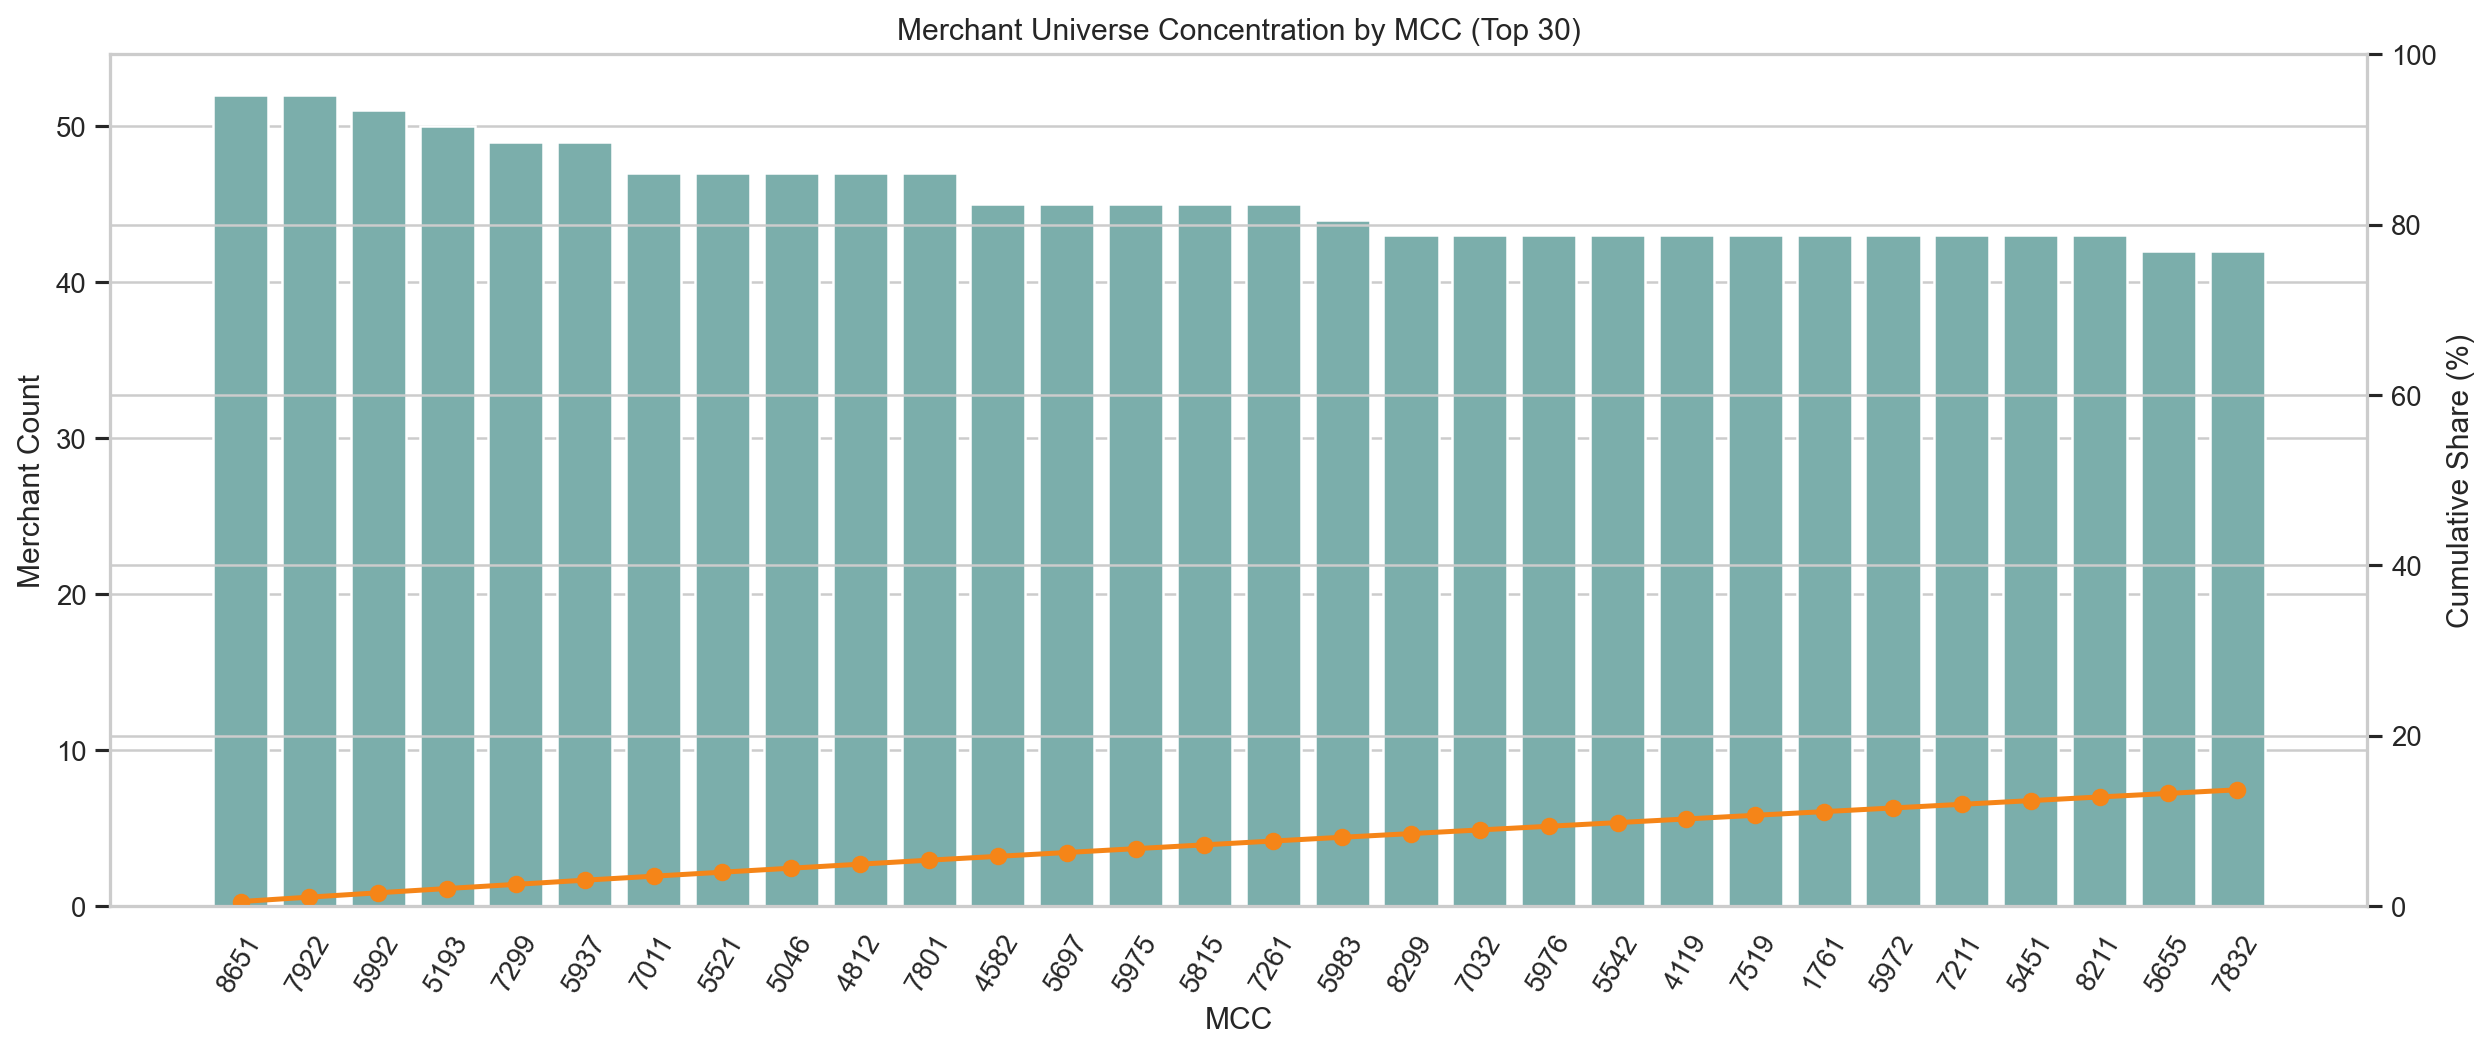
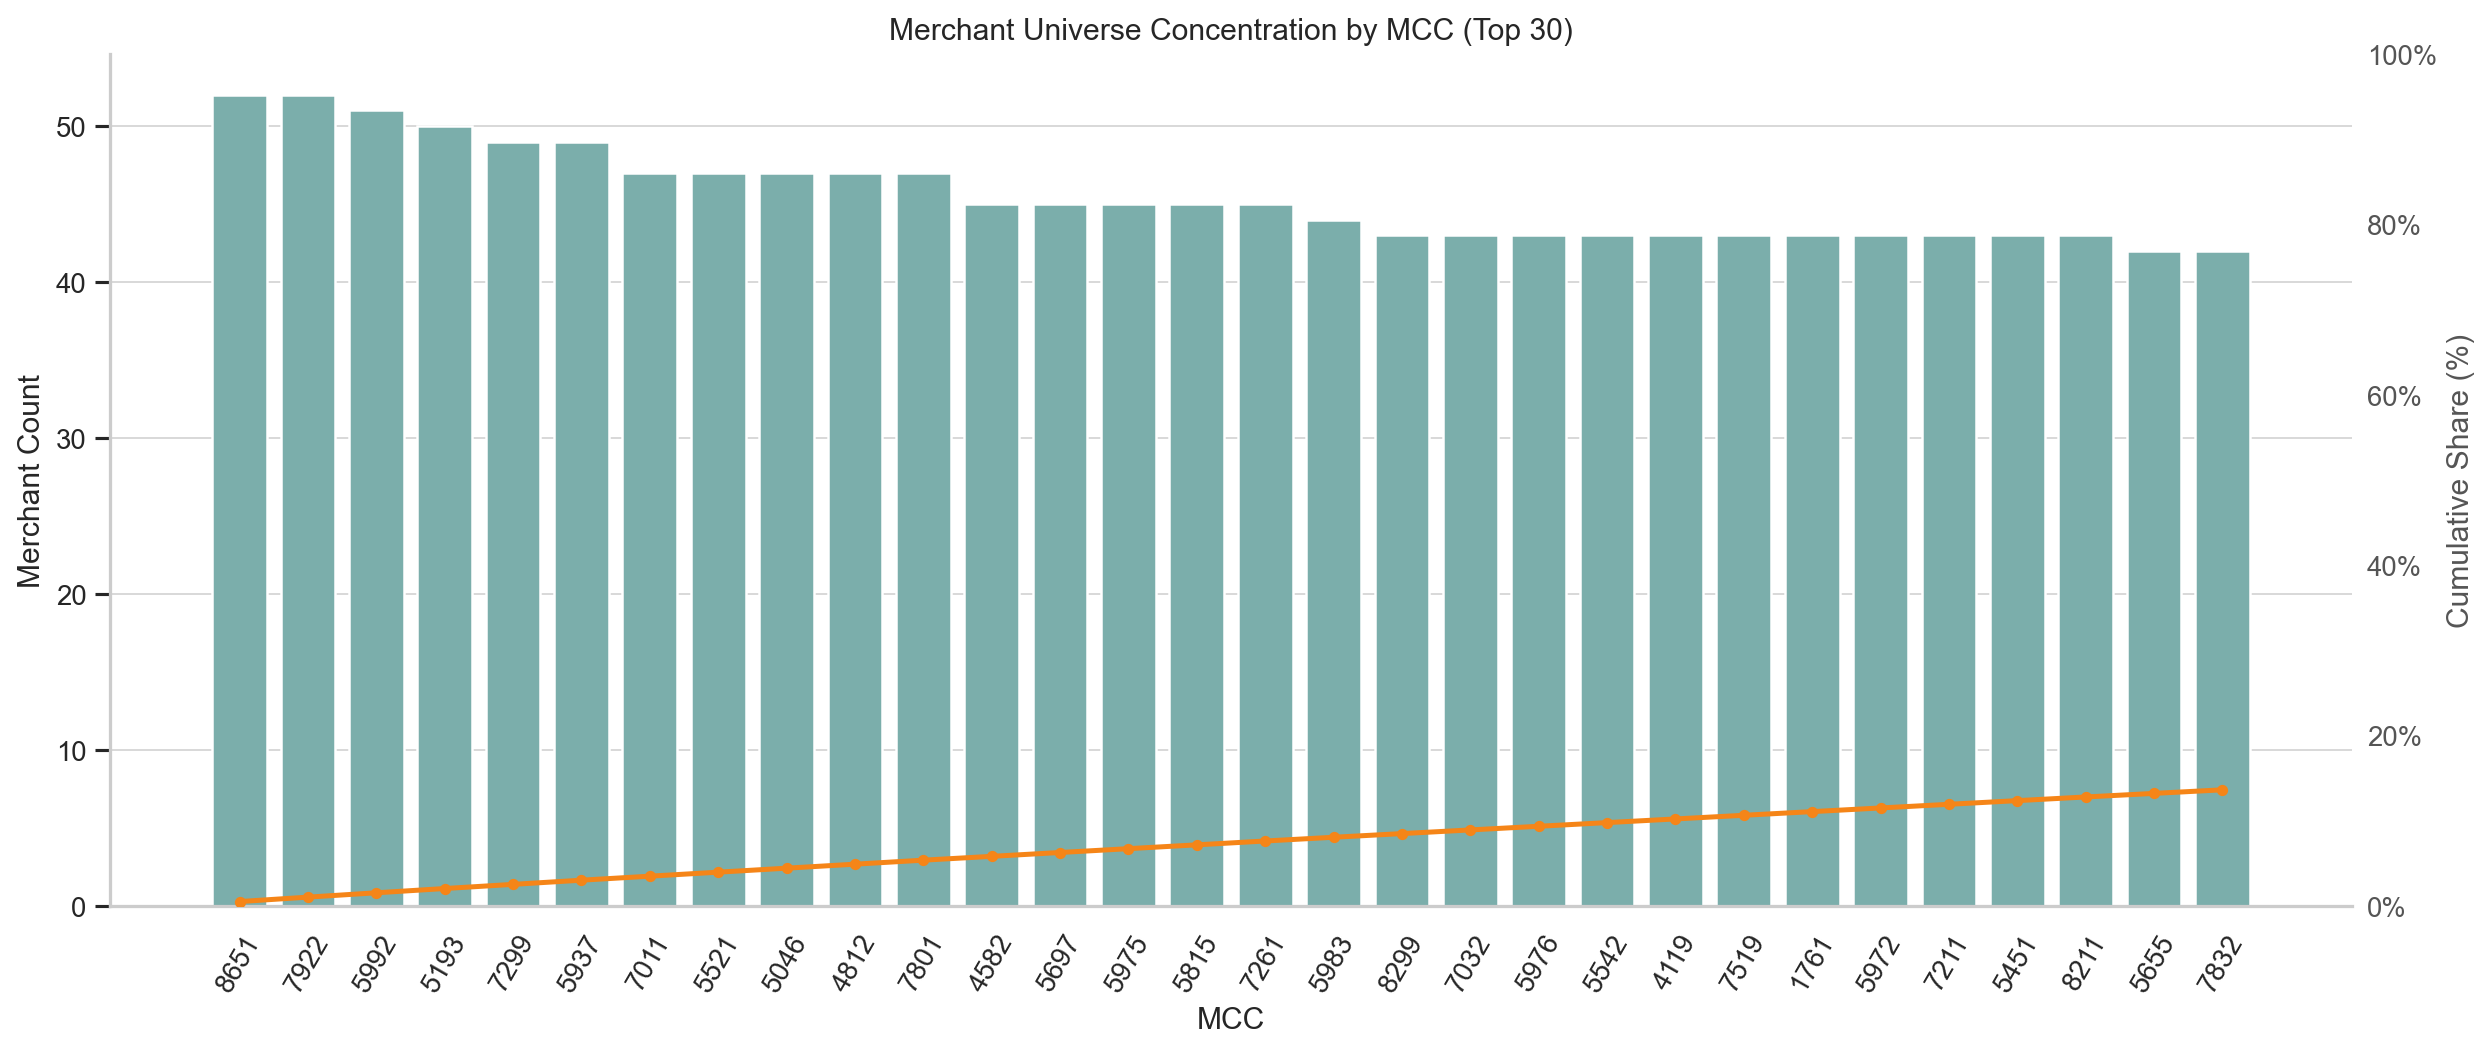
Add visualizations for merchant data analysis: country pareto, MCC pareto, and channel split

diff --git a/analysis/dev_full_offline_investigation/00_investigation/watson_workbench/scratch/generate_transaction_schema_merchant_ids_visuals.py b/analysis/dev_full_offline_investigation/00_investigation/watson_workbench/scratch/generate_transaction_schema_merchant_ids_visuals.py
@@ -1,0 +1,157 @@
+from pathlib import Path
+
+import matplotlib
+
+# Use a non-interactive backend so plots can be rendered from the terminal.
+matplotlib.use("Agg")
+
+import matplotlib.pyplot as plt
+from matplotlib.ticker import PercentFormatter
+import pandas as pd
+import seaborn as sns
+
+
+ROOT = Path(r"c:\Users\LEGION\Documents\Data Science\Python & R Scripts\fraud-detection-system")
+WORKBENCH = ROOT / "analysis/dev_full_offline_investigation/00_investigation/watson_workbench"
+EXPORTS = WORKBENCH / "exports"
+EXPORTS.mkdir(parents=True, exist_ok=True)
+
+MERCHANT_PATH = ROOT / "reference/layer1/transaction_schema_merchant_ids/2026-01-03/transaction_schema_merchant_ids.parquet"
+
+
+def style_dual_axis(ax1, ax2) -> None:
+    # Keep the bar axis visually primary.
+    ax1.spines["top"].set_visible(False)
+    ax1.spines["right"].set_visible(False)
+    ax1.grid(axis="y", color="#D9D9D9", linewidth=0.8)
+    ax1.grid(axis="x", visible=False)
+
+    # Keep the cumulative axis readable without adding a competing vertical spine.
+    ax2.spines["top"].set_visible(False)
+    ax2.spines["right"].set_visible(False)
+    ax2.grid(False)
+    ax2.tick_params(axis="y", colors="#555555", length=0, pad=6)
+    ax2.yaxis.label.set_color("#555555")
+
+
+def country_pareto(df: pd.DataFrame) -> None:
+    country = df["home_country_iso"].value_counts().rename_axis("home_country_iso").reset_index(name="merchant_count")
+    country["merchant_share_pct"] = country["merchant_count"] / len(df) * 100
+    country["cumulative_share_pct"] = country["merchant_share_pct"].cumsum()
+    country_top = country.head(30).copy()
+
+    fig, ax1 = plt.subplots(figsize=(14, 6))
+    sns.barplot(data=country_top, x="home_country_iso", y="merchant_count", color="#4C78A8", ax=ax1)
+    ax1.set_title("Merchant Universe Concentration by Home Country (Top 30)")
+    ax1.set_xlabel("Home Country ISO")
+    ax1.set_ylabel("Merchant Count")
+    ax1.tick_params(axis="x", rotation=60)
+
+    ax2 = ax1.twinx()
+    ax2.plot(
+        range(len(country_top)),
+        country_top["cumulative_share_pct"],
+        color="#E45756",
+        marker="o",
+        markersize=3.5,
+        linewidth=2,
+        zorder=3,
+    )
+    ax2.set_ylabel("Cumulative Share (%)")
+    ax2.set_ylim(0, 100)
+    ax2.yaxis.set_major_formatter(PercentFormatter(100))
+
+    style_dual_axis(ax1, ax2)
+    fig.tight_layout()
+    fig.savefig(EXPORTS / "transaction_schema_merchant_ids_country_pareto.png", dpi=180, bbox_inches="tight")
+    plt.close(fig)
+
+
+def mcc_pareto(df: pd.DataFrame) -> None:
+    mcc = df["mcc"].value_counts().rename_axis("mcc").reset_index(name="merchant_count")
+    mcc["merchant_share_pct"] = mcc["merchant_count"] / len(df) * 100
+    mcc["cumulative_share_pct"] = mcc["merchant_share_pct"].cumsum()
+    mcc_top = mcc.head(30).copy()
+    mcc_top["mcc"] = mcc_top["mcc"].astype(str)
+
+    fig, ax1 = plt.subplots(figsize=(14, 6))
+    sns.barplot(data=mcc_top, x="mcc", y="merchant_count", color="#72B7B2", ax=ax1)
+    ax1.set_title("Merchant Universe Concentration by MCC (Top 30)")
+    ax1.set_xlabel("MCC")
+    ax1.set_ylabel("Merchant Count")
+    ax1.tick_params(axis="x", rotation=60)
+
+    ax2 = ax1.twinx()
+    ax2.plot(
+        range(len(mcc_top)),
+        mcc_top["cumulative_share_pct"],
+        color="#F58518",
+        marker="o",
+        markersize=3.5,
+        linewidth=2,
+        zorder=3,
+    )
+    ax2.set_ylabel("Cumulative Share (%)")
+    ax2.set_ylim(0, 100)
+    ax2.yaxis.set_major_formatter(PercentFormatter(100))
+
+    style_dual_axis(ax1, ax2)
+    fig.tight_layout()
+    fig.savefig(EXPORTS / "transaction_schema_merchant_ids_mcc_pareto.png", dpi=180, bbox_inches="tight")
+    plt.close(fig)
+
+
+def channel_split(df: pd.DataFrame) -> None:
+    channel = df["channel"].value_counts(dropna=False).rename_axis("channel").reset_index(name="merchant_count")
+    channel["merchant_share_pct"] = channel["merchant_count"] / len(df) * 100
+
+    fig, ax = plt.subplots(figsize=(8, 5))
+    sns.barplot(
+        data=channel,
+        x="channel",
+        y="merchant_count",
+        hue="channel",
+        dodge=False,
+        palette=["#54A24B", "#EECA3B"],
+        ax=ax,
+    )
+    legend = ax.get_legend()
+    if legend is not None:
+        legend.remove()
+
+    ax.set_title("Merchant Universe Channel Split")
+    ax.set_xlabel("Channel")
+    ax.set_ylabel("Merchant Count")
+    ax.spines["top"].set_visible(False)
+    ax.spines["right"].set_visible(False)
+    ax.grid(axis="y", color="#D9D9D9", linewidth=0.8)
+    ax.grid(axis="x", visible=False)
+
+    for i, row in channel.reset_index(drop=True).iterrows():
+        ax.text(
+            i,
+            row["merchant_count"] + 80,
+            f"{row['merchant_count']:,}\n({row['merchant_share_pct']:.2f}%)",
+            ha="center",
+            va="bottom",
+            fontsize=10,
+        )
+
+    fig.tight_layout()
+    fig.savefig(EXPORTS / "transaction_schema_merchant_ids_channel_split.png", dpi=180, bbox_inches="tight")
+    plt.close(fig)
+
+
+def main() -> None:
+    sns.set_theme(style="whitegrid")
+    merchant_ids_df = pd.read_parquet(MERCHANT_PATH)
+    country_pareto(merchant_ids_df)
+    mcc_pareto(merchant_ids_df)
+    channel_split(merchant_ids_df)
+
+    for path in sorted(EXPORTS.glob("transaction_schema_merchant_ids_*.png")):
+        print(path)
+
+
+if __name__ == "__main__":
+    main()
